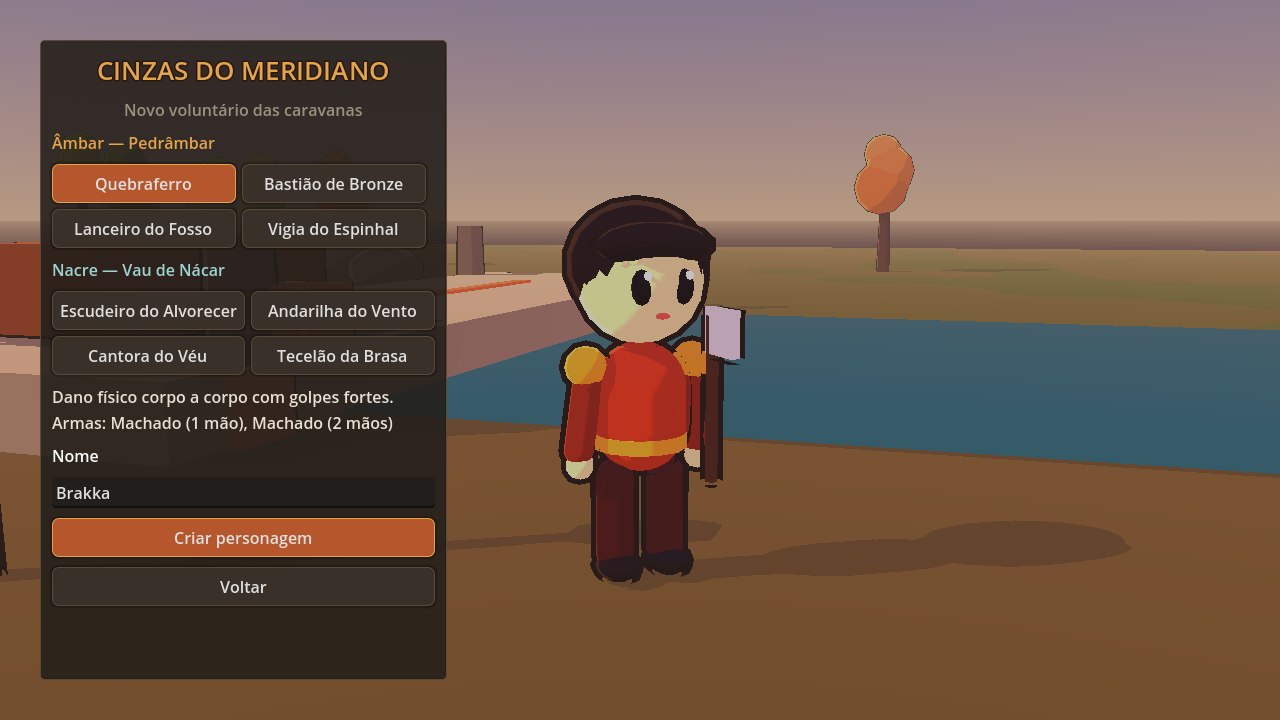
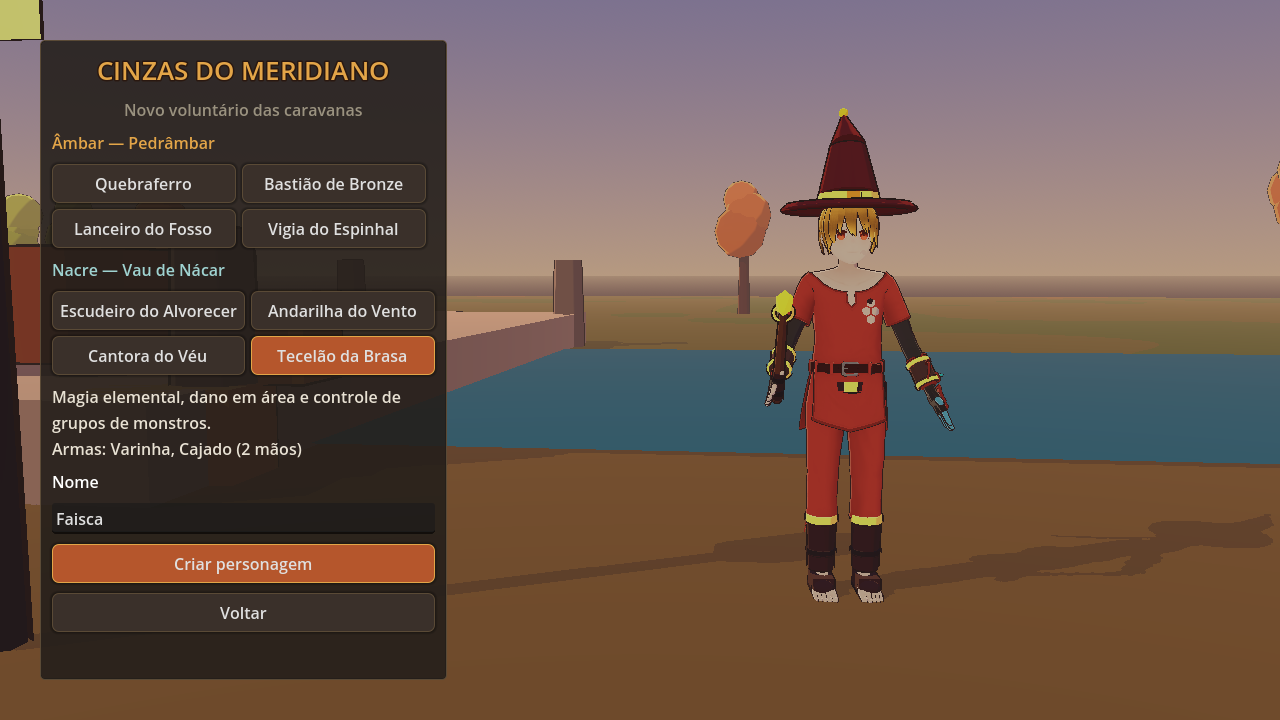
Documentação: créditos dos modelos VRM, decisões e capturas novas
Claude-Session: https://claude.ai/code/session_01Wm5Atz6NfWyJZQ4Ye5FiG2

diff --git a/docs/DECISOES.md b/docs/DECISOES.md
@@ -53,3 +53,9 @@ Decisões tomadas por conta própria durante a sessão que criou o Marco 1. Cada
 | D35 | **Visual "3D com traço de anime"**: shaders próprios de cel shading (2 faixas, sombra arroxeada, luz de borda), contorno por casca invertida, personagens procedurais de cabeça grande e olhos marcados, cenário com semente fixa. | Pedido do usuário. Funciona no renderizador Compatibility; a arte definitiva pode trocar as malhas mantendo os materiais. |
 | D36 | **Navegação**: cena 3D (ponte da abertura) atrás dos menus; prévia 3D do personagem na seleção e na criação; tela Carregando em toda entrada e troca de mapa; Esc fecha o painel de cima ou abre o menu de pausa; opções salvas em `user://opcoes.cfg`. | Coerente com docs/07; o jogador sempre sabe onde está e como voltar. |
 | D37 | Ameaça: agressão por proximidade começa em 25; cura gera 0,25 por ponto; Bastião ×1,8 e Escudeiro ×1,5 no dano. | O teste do grupo de 5 mostrou que uma única cura tirava os monstros do tanque. |
+| D38 | **Personagens de anime a partir de modelos VRM reais** (Seed-san e a amostra da pixiv, VRM Public License 1.0, permissões conferidas nos metadados), em vez de formas montadas por código. | Pedido do usuário ("cara exatamente de personagens de anime"). Primitivas não chegam nesse nível; VRM é o padrão de avatares de anime e traz rosto pintado, cabelo, roupa, esqueleto humano e expressões. Créditos em docs/CREDITOS.md e na tela de título. |
+| D39 | Dois corpos-base (menina e menino) recoloridos por classe (cabelo, olhos, roupa) e vestidos com **equipamento procedural preso aos ossos** (ombreiras, peitoral, botas, braçadeiras, saias, capa, chapéu, armas extrudadas). | Com dois modelos livres, a identidade de cada classe vem de cor + equipamento; as peças seguem a animação porque ficam presas aos ossos. |
+| D40 | **Animação procedural no esqueleto** num espaço normalizado (pose_local = Rg_pai⁻¹·D·Rg_osso) + **restrições de mira do VRM** resolvidas em código. | Funciona com eixos de ossos diferentes nos dois modelos. O Godot não executa `VRMC_node_constraint`; sem resolver as miras, manga, pele do braço e coxa ficavam paradas em T. |
+| D41 | Materiais dos personagens com **iluminação calculada no shader** (modo "unshaded" + sol e ambiente como parâmetros globais), calibrada com medição de pixels. | No renderizador Compatibility, materiais com função de luz própria clareavam demais com a sombra do sol ligada (pele saía branca). Assim a cor final fica igual à textura pintada em qualquer renderizador. |
+| D42 | Rosto sem contorno; recorte por transparência nas partes do rosto do Seed-san. | O contorno (casca inflada) atravessava a cavidade da boca e dos olhos e desenhava manchas escuras. |
+| D43 | Texturas extraídas pelo importador do Godot ficam fora do Git (`client/.gitignore`). | Já estão dentro dos `.glb`; o Godot as recria na primeira importação. Evita dobrar o tamanho do repositório. |

diff --git a/README.md b/README.md
@@ -6,8 +6,11 @@ MMORPG 3D de ação PvE para PC, com câmera elevada, movimento por clique, caç
 
 | | |
 |---|---|
-| ![Título](docs/img/01_titulo.png) | ![Criação de personagem](docs/img/04_criacao.png) |
-| ![Personagens](docs/img/05_personagens.png) | ![Mundo](docs/img/08_mundo_perto.png) |
+| ![Classes de Âmbar](docs/img/11_classes_ambar.png) | ![Classes de Nacre](docs/img/12_classes_nacre.png) |
+| ![Personagens](docs/img/05_personagens.png) | ![Rosto](docs/img/13_rosto.png) |
+| ![Título](docs/img/01_titulo.png) | ![Mundo](docs/img/08_mundo_perto.png) |
+
+Personagens: modelos VRM de anime — **Seed-san model by VirtualCast, Inc.** e amostra VRM © 2022 pixiv Inc., ambos sob a VRM Public License 1.0 (detalhes em [docs/CREDITOS.md](docs/CREDITOS.md)).
 
 *Capturas reais do cliente (Godot 4.3, renderização por software em Linux), geradas pelo modo `--navshots`. Fluxo de telas em [docs/07-navegacao.md](docs/07-navegacao.md).*
 
@@ -23,6 +26,7 @@ MMORPG 3D de ação PvE para PC, com câmera elevada, movimento por clique, caç
 | [docs/06-mundo-e-mapas.md](docs/06-mundo-e-mapas.md) | Cidades, cinco áreas, regras de monstros, morte e resgate, combate legível, telas da interface |
 | [docs/07-navegacao.md](docs/07-navegacao.md) | Telas, camadas dentro do jogo, mapa do mundo, controles e direção gráfica |
 | [docs/DECISOES.md](docs/DECISOES.md) | Todas as decisões tomadas por conta própria e o motivo |
+| [docs/CREDITOS.md](docs/CREDITOS.md) | Créditos e licenças dos modelos de personagem |
 
 ## Requisitos
 
@@ -75,7 +79,7 @@ Com o servidor rodando, de dentro da pasta `mmo` (raiz do repositório), abra **
 /Applications/Godot.app/Contents/MacOS/Godot --path client
 ```
 
-(No Linux/Windows, troque pelo caminho do executável do Godot.) Na primeira vez o Godot importa o projeto e cria `client/.godot/` — leva alguns segundos.
+(No Linux/Windows, troque pelo caminho do executável do Godot.) Na primeira vez o Godot importa o projeto e cria `client/.godot/`: leva cerca de meio minuto, porque extrai as texturas dos modelos de personagem (≈ 60 MB a mais em disco).
 
 Para já abrir com a conta preenchida:
 
@@ -136,6 +140,12 @@ Teste automático do **cliente** (headless, contra um servidor rodando), da raiz
 ```
 
 Ele cria a conta/personagem se preciso, entra no mundo pela mesma rotina da interface, anda até (30, 50), ataca um Rato de Sulco, coleta o saque e termina com `[autotest] OK` (código de saída 0). Mensagens `Parameter "m" is null` vêm do renderizador "dummy" do modo headless e são inofensivas.
+
+Vitrine com as 8 classes, monstros e NPCs (salva capturas, inclusive closes do rosto):
+
+```bash
+/Applications/Godot.app/Contents/MacOS/Godot --path client -- --gallery=/tmp/vitrine
+```
 
 Percorrer todas as telas e salvar uma captura de cada (precisa de janela, não use `--headless`):
 

diff --git a/docs/CREDITOS.md b/docs/CREDITOS.md
@@ -1,0 +1,21 @@
+# Créditos
+
+## Modelos de personagem (VRM)
+
+Os personagens jogáveis e os NPCs usam dois modelos VRM de exemplo publicados pelo VRM Consortium no repositório oficial da especificação VRM (`vrm-c/vrm-specification`, pasta `samples/`). Os arquivos foram renomeados de `.vrm` para `.glb` (o VRM é um glTF binário) e ficam em `client/assets/characters/`.
+
+| Arquivo no projeto | Modelo original | Autor / direitos | Licença |
+|---|---|---|---|
+| `seed_san.glb` | **Seed-san** | **Seed-san model by VirtualCast, Inc.** | VRM Public License 1.0 — crédito obrigatório |
+| `pixiv_sample.glb` | VRM1_Constraint_Twist_Sample | (c) 2022 pixiv Inc. | VRM Public License 1.0 — crédito dispensado (mantido por cortesia) |
+
+Permissões conferidas nos metadados gravados em cada arquivo (`VRMC_vrm.meta`): uso como avatar por qualquer pessoa (`avatarPermission: everyone`), uso comercial inclusive por empresas (`commercialUsage: corporation`), redistribuição permitida (`allowRedistribution: true`), modificação e redistribuição de versões modificadas permitidas (`modification: allowModificationRedistribution`) e uso em conteúdo com violência permitido (`allowExcessivelyViolentUsage: true`). Licença: <https://vrm.dev/licenses/1.0/>.
+
+Modificações feitas pelo jogo, em tempo de execução: troca de materiais por cel shading próprio, recolorização de cabelo, olhos e roupa, ocultação do braço robótico e da mochila do Seed-san, animação procedural do esqueleto e peças de equipamento presas aos ossos.
+
+O crédito do Seed-san aparece na tela de título do jogo.
+
+## Ferramentas
+
+- Godot Engine 4.3 (MIT).
+- Node.js e o pacote `ws` (MIT).

diff --git a/docs/07-navegacao.md b/docs/07-navegacao.md
@@ -96,4 +96,4 @@ Da mais baixa para a mais alta. Uma camada de cima bloqueia o clique nas de baix
 - **Cores**: saturadas, mas dentro da paleta de ferrugem e nácar (céu do amanhecer de violeta para pêssego, chão ocre, verde-oliva); vermelho reservado para perigo e requisitos não atendidos.
 - **Cenário**: árvores, pedras e tufos de grama espalhados com semente fixa (o mesmo mapa sempre fica igual), fora da estrada e das áreas de monstros.
 
-Os modelos atuais são montados por código com formas simples já nesse estilo (`client/scripts/art.gd`); a arte definitiva substitui as malhas mantendo os mesmos materiais.
+**Personagens:** modelos VRM de anime (Seed-san e a amostra da pixiv — créditos em `docs/CREDITOS.md`) com rosto pintado, cabelo e expressões (piscar, sorrir, cara brava ao atacar, careta ao apanhar). Cada classe recolore cabelo, olhos e roupa e ganha equipamento próprio preso aos ossos (`client/scripts/vrm_character.gd`, `client/scripts/gear.gd`). Monstros e cenário continuam montados por código no mesmo estilo (`client/scripts/art.gd`).
